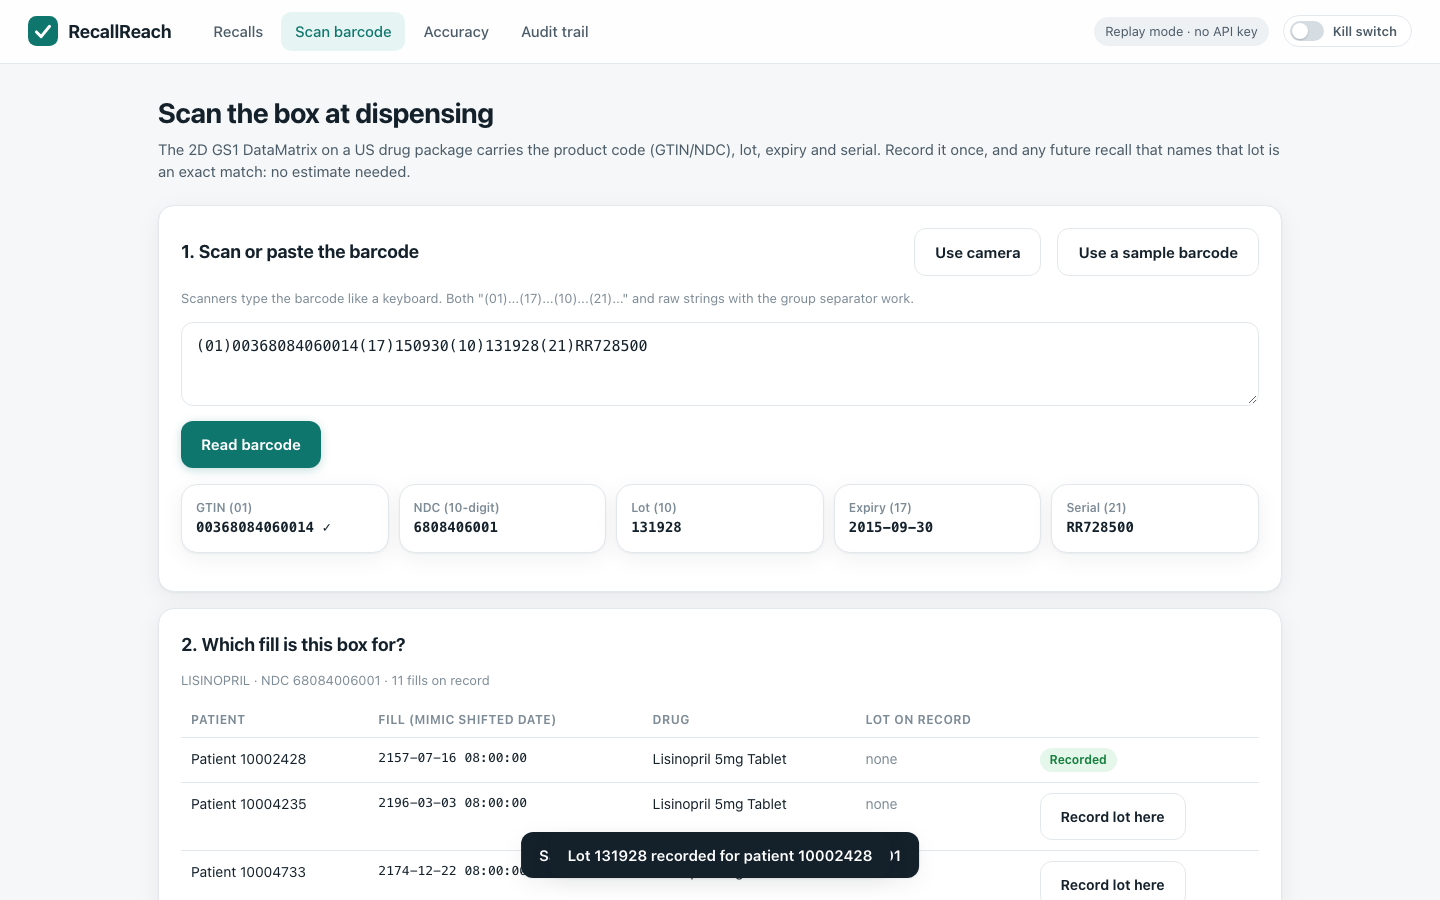
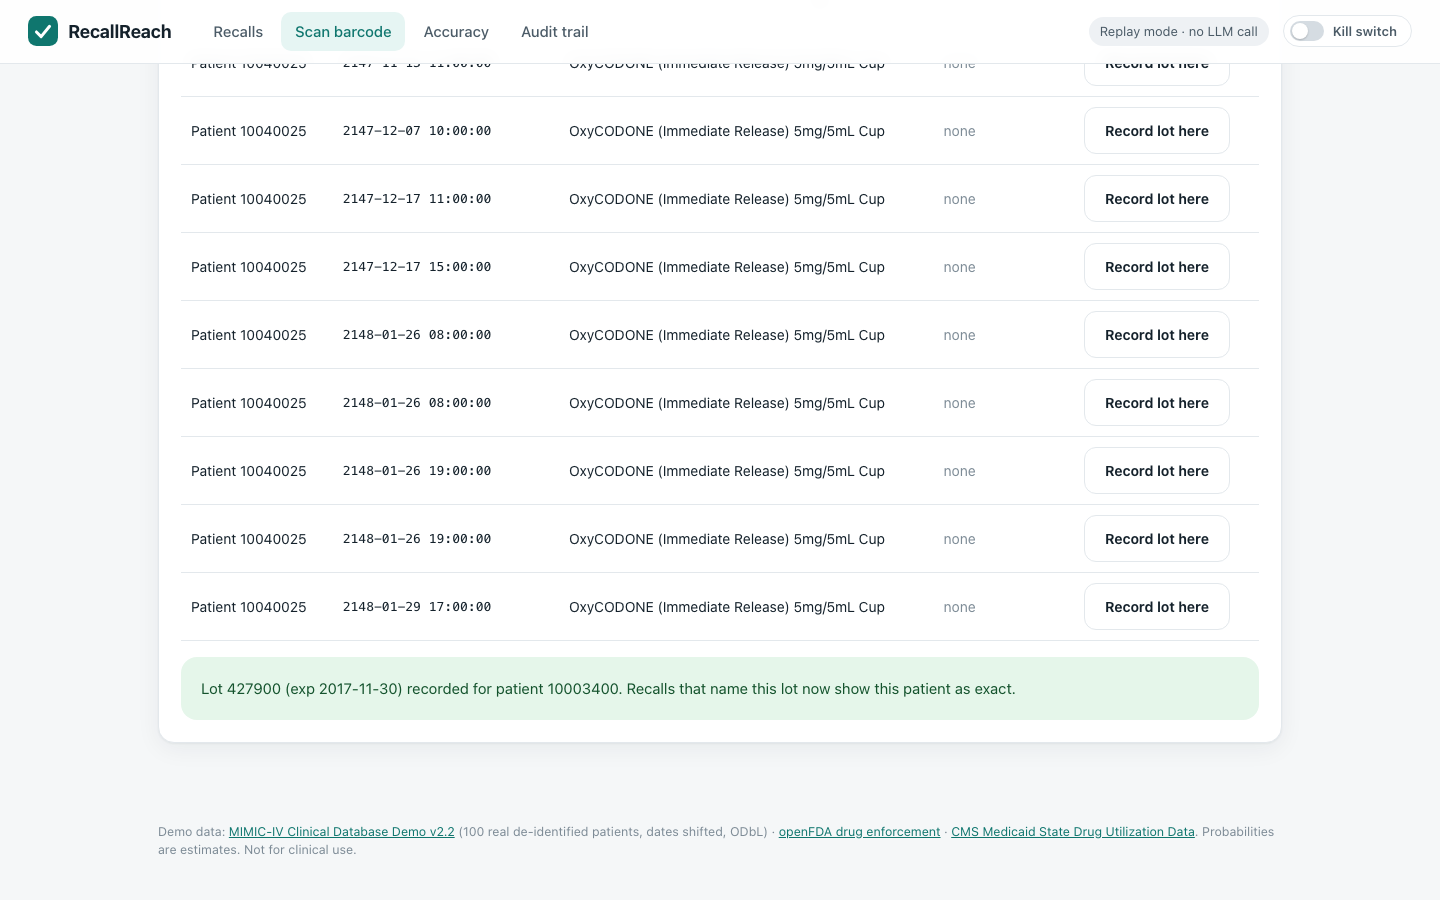
README for judges, GIF, Visual Trace and new screenshots, live-run script

diff --git a/README.md b/README.md
@@ -1,14 +1,31 @@
 # RecallReach
 
-**An FDA drug recall arrives. An IRIS AI Hub agent reads it, checks the pharmacy's records with a tool, and decides what to do. RecallReach then ranks the patients who may have the recalled pills in one list, by estimated probability. A pharmacist approves holds and phone calls through the IRIS Workflow Engine. The approval expires in 10 minutes and works once. A kill switch stops everything, and every step is in the audit trail and in Visual Trace.**
+When the FDA recalls a drug, RecallReach finds which pharmacy patients probably got it, and nothing happens until a pharmacist approves.
 
-![Patient list after "Find patients"](_screens/06_patient_list_top.png)
+![A recall arrives, the agent reads it, and the patient list stops on the patient whose scanned lot is on the recall](docs/spin.gif)
 
-- Real data: 100 real de-identified patients and 18,087 dispensing records from MIMIC-IV Demo, 647 real openFDA recalls, CMS Medicaid volumes.
-- Runs with **no API key** (replay mode) on the first `docker compose up`. Set one env var for the live Anthropic model.
-- Built and tested on **IRIS for Health Community 2027.1.0AI build 109** (`2027.1.0AI.109.0`, arm64 on Apple Silicon; the amd64 image of the same build should work the same way, not tested here). Build 154 was taken off the portal; organizers said 109 is fine if the README says so.
+**For judges (2 minutes)**
+1. Load the IRIS AI Hub image (see [Run it](#run-it)), then `docker compose up -d --build` and open http://localhost:52795/recallreach/index.html
+2. Press *Simulate new FDA recall*, open it, press *Find patients*, then *Ask pharmacist approval* and *Approve*.
+3. Real: MIMIC-IV demo patients, openFDA recalls, the IRIS production, tool calls, Workflow approval, audit. Replayed: with no API key (the default) the agent's replies come from a local rule-based endpoint, so no LLM is called. Live LLM accuracy has not been measured yet ([Run with your own key](#run-with-your-own-key)).
 
-## Quick start (3 commands)
+## What it does
+
+1. An IRIS AI Hub agent reads the FDA notice, works out how far the recall goes (consumer, retail or wholesale level), calls a read-only tool on the pharmacy records, and picks one of three ways: **contact patients**, **shelf check only**, or **nothing**.
+2. Consumer level: patients are ranked in one list by estimated chance, with the formula and sources on every row. A lot scanned from the box at dispensing makes a row exact.
+3. A pharmacist approves calls and "fill the next refill from a non-recalled lot" (the medicine is not stopped) through the IRIS Workflow Engine. The approval works once and expires in 10 minutes. A kill switch stops everything.
+4. Retail or wholesale level: no patient list and no calls, just a shelf task with the lots to pull.
+5. Every step is in the audit trail, in plain sentences, with a link to Visual Trace.
+
+| The decision changes the flow | Visual Trace of one recall |
+|---|---|
+| ![Shelf check branch](_screens/03_recall_detail_shelf_check.png) | ![Visual Trace](_screens/16_visual_trace.png) |
+
+Data: 100 de-identified patients from MIMIC-IV Demo. Their records are **inpatient medication orders (MIMIC-IV demo) used as a stand-in for dispensing records** (18,087 orders), so "patient still has the medicine at home" is a story this data cannot prove; see [Limits](#limits). Plus 647 openFDA drug recalls and CMS Medicaid volumes.
+
+## Run it
+
+Built and tested on IRIS for Health Community 2027.1.0AI build 109 (`2027.1.0AI.109.0`, arm64 on Apple Silicon; organizers confirmed build 109 is accepted). The amd64 image of the same build should behave the same; not tested here.
 
 The AI Hub image is on the InterSystems early-access portal, not on Docker Hub. Load it once:
 
@@ -26,25 +43,23 @@ docker tag <that full name> intersystems/irishealth-community:2027.1.0AI.109.0
 Then:
 
 ```bash
-git clone <this repo> && cd recallreach
-docker compose up -d --build        # ~3 min the first time: compiles, loads data, runs 6 recalls through the production
-# the app answers a few seconds after the container starts
-open http://localhost:52795/recallreach/index.html
+git clone https://github.com/jejuolledev/recallreach && cd recallreach
+docker compose up -d --build   # compiles, loads data, runs 6 recalls through the production (about 30 s to 3 min)
+# then open http://localhost:52795/recallreach/index.html in a browser
 ```
 
-No login for the app. Management Portal: http://localhost:52795/csp/sys/UtilHome.csp (`_SYSTEM` / `SYS`), production `RecallReach.Production` in namespace `USER`.
+No login for the app. Management Portal: http://localhost:52795/csp/sys/UtilHome.csp (`_SYSTEM` / `SYS`), production `RecallReach.Production` in namespace `USER`. Ports are bound to 127.0.0.1.
 
-Live LLM (optional): `cp .env.example .env`, put your key in `ANTHROPIC_API_KEY`, `docker compose up -d`. The header then shows "Live AI Hub agent · claude-haiku-5-5". Spend is capped by `RR_SPEND_CAP_USD` (default $5). The key is read from the container environment only; the app never logs it, stores it or sends it to the browser. Ports are bound to 127.0.0.1. Before live mode on a shared machine, change the `_SYSTEM` password: anyone with Management Portal access can read the container environment.
+## Try it
 
-## Try it (2 minutes)
-
-1. **Scan barcode** tab: *Use a sample barcode* -> *Read barcode* -> *Record lot here* on patient 10002428. (This plays the pharmacist who scanned the box when filling it.)
-2. **Recalls** tab: *Simulate new FDA recall*. A real FDA recall (D-1226-2015, Lisinopril 5 mg) arrives; the AI Hub agent reads it.
-3. Open it: the notice is on the left, the fields the agent extracted on the right. Click a field to see its evidence. Low-confidence fields are yellow.
-4. *Find patients*: the list spins and stops on the top patient. Press *Why ...?* on any row for the formula and sources.
-5. *Ask pharmacist approval* -> *Approve*. Press it again: refused, the link is single use. Wait 10 minutes: expired.
-6. Turn on the **Kill switch**: the agent, the feed, approvals and actions all stop, and pending approvals are cancelled. Turn it off and ask for a new approval.
-7. **Audit trail** and **Accuracy** tabs. Each audit row links to Visual Trace.
+1. **Scan** tab: *Use a sample barcode* -> *Read barcode* -> *Record lot here* on patient 10003400 (fill 6118). This plays the pharmacist who scanned the box when filling it. A barcode with a wrong check digit or no expiry is refused.
+2. **Recalls** tab: the inbox already holds six older recalls; five of them are shelf checks (retail level) and one is a patient-contact recall. *Simulate new FDA recall*: D-0464-2017 (oxycodone oral solution, water possibly contaminated with *Burkholderia cepacia*) arrives and the agent reads it.
+3. Open it. The decision box says **Patient contact**, consumer level (inferred: Class II with a contamination reason). The notice is on the left, the extracted fields on the right; click a field to see its evidence.
+4. *Find patients*: the list spins and stops on patient 10003400, now 100% with "Lot confirmed". Without the scan the top estimate is about 55%. Press *Why ...?* on any row for the formula and sources.
+5. *Ask pharmacist approval* -> *Approve*. The button locks; *Try this link again* sends the same approval a second time and is refused (HTTP 409). An approval left for 10 minutes expires.
+6. Open D-1226-2015 (lisinopril, "did not adequately investigate customer complaints"): **Shelf check only**. No patient list, no calls, a task with lot 131928 to pull, and *Mark shelf check done*.
+7. Turn on the **Kill switch**: the agent, the feed, approvals and actions stop, and pending approvals are cancelled.
+8. **Audit** and **Accuracy** tabs. Audit rows from an Interoperability session link to Visual Trace (portal login needed); kill switch, lot scans and demo resets have no session.
 
 ## How it works
 
@@ -53,22 +68,24 @@ flowchart LR
   A[RecallFeed<br/>custom inbound adapter<br/>queue / openFDA live] --> B[RecallTriage BPL]
   B --> C[RecallReaderAgent BO<br/>EnsLib.AI.Agent.OutboundAdapter<br/>IRIS AI Hub agent]
   C -- tool call --> T[(LookupDispensed tool<br/>read-only counts)]
-  B --> D[PatientMatcher BO<br/>SQL + IRIS Vector Search<br/>+ Embedded Python]
+  B -- consumer level --> D[PatientMatcher BO<br/>SQL + IRIS Vector Search<br/>+ Embedded Python]
+  B -- retail / wholesale level --> S[ShelfCheck BO<br/>lots to pull, no patient calls]
   UI[Web UI / REST] --> E[ApprovalIntake BS]
   E --> F[ApprovalFlow BPL]
   F --> G[Pharmacist<br/>EnsLib.Workflow.Operation<br/>10-minute timeout]
-  F --> H[ActionExecutor BO<br/>holds + call list]
+  F --> H[ActionExecutor BO<br/>next refill from another lot + call list]
 ```
 
 | Production item | Class | What it does |
 |---|---|---|
 | RecallFeed | `RecallReach.Service.RecallFeed` + `RecallReach.Adapter.RecallFeedInboundAdapter` (custom) | Takes recalls from the demo queue, or polls `api.fda.gov` (`Source=openfda-live`). Stops while the kill switch is on. |
-| RecallTriage | BPL | agent -> (if action is not `no_action`) matcher -> status |
-| RecallReaderAgent | `RecallReach.Operation.RecallReaderAgent` + `RecallReach.Adapter.AgentAdapter` (extends `EnsLib.AI.Agent.OutboundAdapter`) | Runs `RecallReach.AI.RecallReaderAgent` (`%AI.Agent`, provider `anthropic`, model `claude-haiku-5-5`). The agent extracts ingredient, strength, form, labeler, NDCs, lots, expiry and distribution with verbatim evidence, calls the `LookupDispensed` tool, and decides `hold_and_contact` / `stock_check` / `no_action`. |
+| RecallTriage | BPL | agent, then a `<switch>` on its decision: `no_action` closes; `stock_check` calls ShelfCheck; `hold_and_contact` calls PatientMatcher. Each way is a different path in Visual Trace. |
+| ShelfCheck | `RecallReach.Operation.ShelfCheck` | Retail- or wholesale-level recall: writes one shelf task (lots and NDCs to pull and quarantine). No patient list, no calls, no change to anyone's refill. |
+| RecallReaderAgent | `RecallReach.Operation.RecallReaderAgent` + `RecallReach.Adapter.AgentAdapter` (extends `EnsLib.AI.Agent.OutboundAdapter`) | Runs `RecallReach.AI.RecallReaderAgent` (`%AI.Agent`, provider `anthropic`, model `claude-haiku-5-5`). The agent extracts ingredient, strength, form, labeler, NDCs, lots, expiry and distribution with verbatim evidence, works out the recall depth, calls the `LookupDispensed` tool, and decides `hold_and_contact` / `stock_check` / `no_action`. |
 | PatientMatcher | `RecallReach.Operation.PatientMatcher` | Exact NDC (SQL index), same product code, and ingredient match through IRIS Vector Search (`VECTOR_COSINE` on drug-name vectors). Probability in Embedded Python. |
 | ApprovalIntake, ApprovalFlow | BS + BPL | Workflow task to role `Pharmacist`, `<sync timeout=615>`; on approve calls ActionExecutor, on timeout marks the approval expired. |
 | Pharmacist | `EnsLib.Workflow.Operation` | IRIS Workflow Engine (AutoCreateRole). |
-| ActionExecutor | `RecallReach.Operation.ActionExecutor` | Re-checks the kill switch and the approval state, flags next fills on hold, writes the call list. |
+| ActionExecutor | `RecallReach.Operation.ActionExecutor` | Re-checks the kill switch and the approval state, flags each approved patient's next refill to be filled from a non-recalled lot (the medicine is not stopped), writes the call list. |
 | BenchmarkRunner | BS | Sends benchmark recalls to the agent for live accuracy runs. |
 
 ### The agent's decision
@@ -76,6 +93,7 @@ flowchart LR
 - **Inputs**: only the free text of the FDA notice. FDA's harmonized `openfda` block (its NDC list) is hidden from the agent and used only to grade it.
 - **Tool**: `RecallReach.AI.PharmacyTools.LookupDispensed(ndcs, ingredient)`, a `%AI.Tool` registered on the agent's `ToolManager`. Returns counts only, no patient ids.
 - **Policies** (adapter settings): `RecallReach.AI.KillSwitchPolicy` (`%AI.Policy.Authorization`: no tool runs while the kill switch is on) and `RecallReach.AI.ToolAudit` (`%AI.Policy.Audit`: every tool call goes to the audit trail).
+- **Recall depth decides the branch.** Patients are called only for a consumer-level recall. openFDA enforcement records have no depth field, and only 2 of the 647 shipped notices say it in the text ("retail level"). So: if the notice states the level, that wins (quoted as evidence). Otherwise the rule is: Class I = consumer; Class II = consumer only if the reason names a direct patient risk (non-sterile, contamination, particulate or foreign matter, wrong drug or label, super- or sub-potent); other Class II and Class III = retail. The UI shows "(inferred)" and the reason. If the agent says `hold_and_contact` for a recall that is not consumer level, the validator turns it into `stock_check`.
 - **Guard rails**: every value must quote verbatim evidence from the notice; values whose evidence is not in the notice are marked low confidence and are not used for matching. A non-JSON reply is an error, not a silent pass. The plan a pharmacist approves can only contain patients from the ranked list.
 
 ### LLM calls traced as Interoperability messages (Ideas Portal DPI-I-689)
@@ -84,7 +102,7 @@ Every LLM call is an `AgentRequest` / `AgentResponse` message pair: prompt, raw 
 
 ### Replay mode (no key)
 
-With no `ANTHROPIC_API_KEY`, the adapter creates the same AI Hub `anthropic` provider with `base_url` pointing to `/recallreach/replay/v1/` on this IRIS instance (local requests only). That endpoint speaks the Anthropic Messages API: it first asks for the `LookupDispensed` tool like the live model does, then answers with a recorded live reply for that recall if one exists in `data/recordings/` (none are shipped yet: no key at build time), or else with a deterministic rule-based reference reply. So `%AI.Agent.Chat`, tool execution, policies, sessions and token stats all run for real. The UI labels which source produced each answer.
+With no `ANTHROPIC_API_KEY`, the adapter creates the same AI Hub `anthropic` provider with `base_url` pointing to `/recallreach/replay/v1/` on this IRIS instance (local requests only). That endpoint speaks the Anthropic Messages API: it first asks for the `LookupDispensed` tool like the live model does, then answers with a recorded live reply for that recall if one exists in `data/recordings/`, or else with a deterministic rule-based reference reply. No recordings ship with this build. So `%AI.Agent.Chat`, tool execution, policies and sessions all run for real; the token counts in replay are estimates, not model usage. The UI says "Replay (rule-based, no LLM call)" instead of a model name.
 
 ### The probability (an estimate, shown with its sources)
 
@@ -102,13 +120,27 @@ P(patient) = average over MIMIC's date shift of [ 1 - product(1 - P(fill)) ]
 | Region | 1.0 nationwide or includes MA; 0.05 outside; 0.7 not stated | FDA `distribution_pattern` (MIMIC is from Boston) |
 | **Barcode lot** | if the GS1 DataMatrix was scanned at dispensing: exactly 1 (lot on the recall) or 0 | `(01)` GTIN, `(17)` expiry, `(10)` lot, `(21)` serial |
 
-Rows under 5% are folded into "n low-likelihood hidden". Medicaid covers only part of US dispensing, so the lot share over-states the true share; the UI says so on every row.
+- Only a scanned lot gives 100% ("exact"). An estimate is capped at 99% and shown rounded (5% steps above 10%, e.g. "≈55%"); the exact factors are in each row's "Why" panel.
+- A scan is saved only if the GTIN check digit is right and the barcode has a lot and an expiry; otherwise nothing is stored.
+- Lot share does little in practice: in the demo recalls it is either capped at 1.0 (the recall is larger than the Medicaid volume) or the 50% default for liquids and injections, so the ranking mostly comes from product match and time on shelf. The "Why" panel says which case applies.
+- Rows under 5% are hidden below the list. Medicaid covers only part of US dispensing, so the lot share over-states the true share; each row's "Why" panel says so.
 
 ## Numbers you can check
 
-- Demo recall **D-1226-2015** (Class II, Lisinopril 5 mg unit-dose tablets, American Health Packaging / Wockhardt, lot 131928 exp 2015-09-30, 4,718 cartons, nationwide). 22 MIMIC patients had a lisinopril fill; 7 shown, 15 hidden; the 7 shown are exactly the patients who got the recalled NDC 68084-0060-01. Top without a barcode: patient 10015860 (3 fills of that NDC), 78%. With the lot scanned for patient 10002428: 100%, "Lot confirmed".
+- Demo recall **D-0464-2017** (Class II, Oxycodone HCl Oral Solution 5 mg/5 mL, VistaPharm, 13 lots, nationwide). 64 MIMIC patients have a matching order; 14 shown, 50 under 5%. With lot 427900 scanned for patient 10003400: 100%, "Lot confirmed". Without a scan the top is patient 10020740, about 55%.
+- D-1226-2015 (Lisinopril 5 mg, Class II, complaint-handling problem): retail level (inferred), shelf check for lot 131928. The tool still reports 11 orders of the recalled NDC for 7 patients; nobody is called.
+- Depth in the 647 shipped recalls: stated in the text for 2; inferred for the rest.
 - 372 of 18,076 openFDA drug recalls share an NDC with the 100 MIMIC demo patients.
-- **Accuracy** (Accuracy tab, 300 random recalls that carry FDA's NDC list, fixed seed): the rule-based reference finds an FDA product NDC in **99.7%**, an exact package NDC in **99.7%**, extracts no NDC that FDA does not list in **300/300**, and its ingredient matches FDA's generic name in **81.7%** (brand names like "Kids' Cough and Chest Congestion" are its weak spot). Live LLM accuracy is not in this build because no key was available at build time: run `tools/run_benchmark.sh` with a key (estimated $0.001-0.002 per recall with claude-haiku-5-5, two model turns; about $0.5 for all 300) and the page shows it next to the rule-based numbers, wrong cases included.
+- **Accuracy** (Accuracy tab, 300 random recalls that carry FDA's NDC list, fixed seed): the rule-based reference extractor finds an FDA product NDC in **99.7%**, an exact package NDC in **99.7%**, extracts an NDC that FDA does not list in **0 of 300**, and its ingredient matches FDA's generic name in **81.7%** (brand names like "Kids' Cough and Chest Congestion" are its weak spot). Live LLM accuracy is not measured in this build.
+
+## Run with your own key
+
+```bash
+cp .env.example .env          # put your Anthropic key after ANTHROPIC_API_KEY= (never commit .env)
+./tools/run_benchmark.sh      # or ./tools/run_benchmark.sh 20 for a short run
+```
+
+The script restarts the container with the key (container environment only; the app never logs it, stores it or sends it to the browser, and the script does not print it), waits until the header says "Live AI Hub agent", sends the benchmark recalls to the agent, copies every reply to `data/recordings/`, and refreshes the Accuracy page, which then shows the LLM next to the rule-based numbers, misses included. Recalls you simulate in live mode are recorded too. Spend stops at `RR_SPEND_CAP_USD` (default $5); with `claude-haiku-5-5` the estimate is $0.001-0.002 per recall, about $0.5 for all 300. Commit `data/recordings/` to replay those replies without a key. Before live mode on a shared machine, change the `_SYSTEM` password: anyone with Management Portal access can read the container environment.
 
 ## Tests
 
@@ -116,9 +148,9 @@ Rows under 5% are folded into "n low-likelihood hidden". Medicaid covers only pa
 ./tools/run_tests.sh
 ```
 
-- 27 Python unit tests (`python/tests/test_core.py`, run with IRIS's `irispython`): NDC layouts, GS1 parsing (human-readable, raw with group separator, `]d2` prefix, day 00), extraction on a real recall, hallucinated evidence, JSON reply parsing, MIMIC date windows, lot window, lot share cap and heuristic, exact lot confirmed/cleared, ranking and hidden tail, vectors, accuracy scoring.
-- ObjectScript `%UnitTest` `RecallReach.Tests.ApprovalTest`: token stored only as SHA-256, 10-minute expiry, single use (approve twice, reject after approve), kill switch cancels pending approvals and refuses new ones, reject needs a reason, plan only from the ranked list, audit rows cannot be edited, replay + validation bridge, GS1 bridge, time arithmetic.
-- `tools/screens.mjs`: headless Playwright walk-through of the whole demo (screenshots in `_screens/`).
+- 36 Python unit tests (`python/tests/test_core.py`, run with IRIS's `irispython`): NDC layouts, GS1 parsing, extraction on a real recall, recall depth (stated, inferred, guard rail, agent quote must be in the notice), decision per depth, singular/plural, hallucinated evidence, JSON reply parsing, MIMIC date windows, lot window, lot share, exact only from a scanned lot, estimate cap, ranking, vectors, accuracy scoring.
+- ObjectScript `%UnitTest` `RecallReach.Tests.ApprovalTest` (14 test methods): token stored only as SHA-256, 10-minute expiry, single use, kill switch, reject needs a reason, plan only from the ranked list, a shelf-check recall takes no patient plan, duplicate patients count once, audit rows cannot be edited, replay + validation bridge (including the depth rule), GS1 bridge, time arithmetic.
+- `tools/screens.mjs`: headless Playwright walk-through (screenshots in `_screens/`), a 10-spin check at 1440 px and 390 px that the reel stops on the #1 patient, and the video for `docs/spin.gif`.
 
 ## Bonus checklist
 
@@ -126,6 +158,7 @@ Rows under 5% are folded into "n low-likelihood hidden". Medicaid covers only pa
 |---|---|
 | Embedded Python | `python/recallreach_core` (extraction, GS1, probability, vectors) called from `RecallReach.Core.Py` |
 | Workflow Engine | `Pharmacist` = `EnsLib.Workflow.Operation`, `ApprovalFlow` BPL |
+| Agent decision drives the flow | `RecallTriage` BPL `<switch>`: patient matching vs. `ShelfCheck` vs. close |
 | Custom adapter | `RecallReach.Adapter.RecallFeedInboundAdapter` (inbound), `RecallReach.Adapter.AgentAdapter` (outbound, extends the AI Hub adapter) |
 | Vector Search | `RecallReach.Data.DrugName.Vec` (`%Vector`, 128-d), `VECTOR_COSINE` in `RecallReach.Core.Py.Match` |
 | Docker | `Dockerfile`, `docker-compose.yml` |
@@ -139,9 +172,11 @@ Rows under 5% are folded into "n low-likelihood hidden". Medicaid covers only pa
 - The demo has no login and holds no real pharmacy data. Do not put real patient data in it. The web apps run unauthenticated with full rights so the demo works without an account; in the demo the person who asks for approval also holds the approval link. A real deployment would put the approve route behind a pharmacist login.
 - Not for clinical use. Probabilities are estimates.
 
-## Limits, honestly
+## Limits
 
-- MIMIC is a hospital, not a retail pharmacy, and has no lot numbers; the lot path is shown by scanning a sample barcode (generated by the app, not a real package serial).
+- MIMIC is a hospital. Its records are inpatient medication orders, used here as a stand-in for a pharmacy's dispensing records. Many demo products (IV bags, unit-dose cups) are given on the ward, not taken home. MIMIC has no lot numbers; the lot path is shown by scanning a sample barcode generated by the app (not a real package serial).
+- Recall depth is rarely in the openFDA text, so it is usually inferred by the rule above. A real FDA recall letter can say otherwise; the UI marks every inferred depth.
+- No inventory data: the shelf check lists what to pull but cannot say how many units are on hand.
 - MIMIC dates are shifted, so "when" is only known within a ~3-year window; this is why the time factor exists.
 - Live LLM accuracy was not measured in this build (no key at build time).
 - `module.xml` is written for IPM but was not installed with IPM in this environment (IPM is not in the AI Hub image); Docker is the tested path.
@@ -151,6 +186,6 @@ Rows under 5% are folded into "n low-likelihood hidden". Medicaid covers only pa
 - `src/RecallReach/` ObjectScript: `AI/` agent, tool, policies; `Adapter/`; `Service/`; `Process/` BPLs; `Operation/`; `API/` REST + replay; `Core/` setup, approvals, config; `Data/` tables; `Tests/`
 - `python/recallreach_core/` Embedded Python core, `python/tests/`
 - `web/` UI (plain HTML/CSS/JS, served by IRIS)
-- `data/` shipped data, `tools/` data prep, SDUD fetch, tests, screenshots, live benchmark
+- `data/` shipped data, `tools/` data prep, SDUD fetch, tests, screenshots, live benchmark, `docs/` README GIF
 
 License: MIT (code). Data: see LICENSE.
